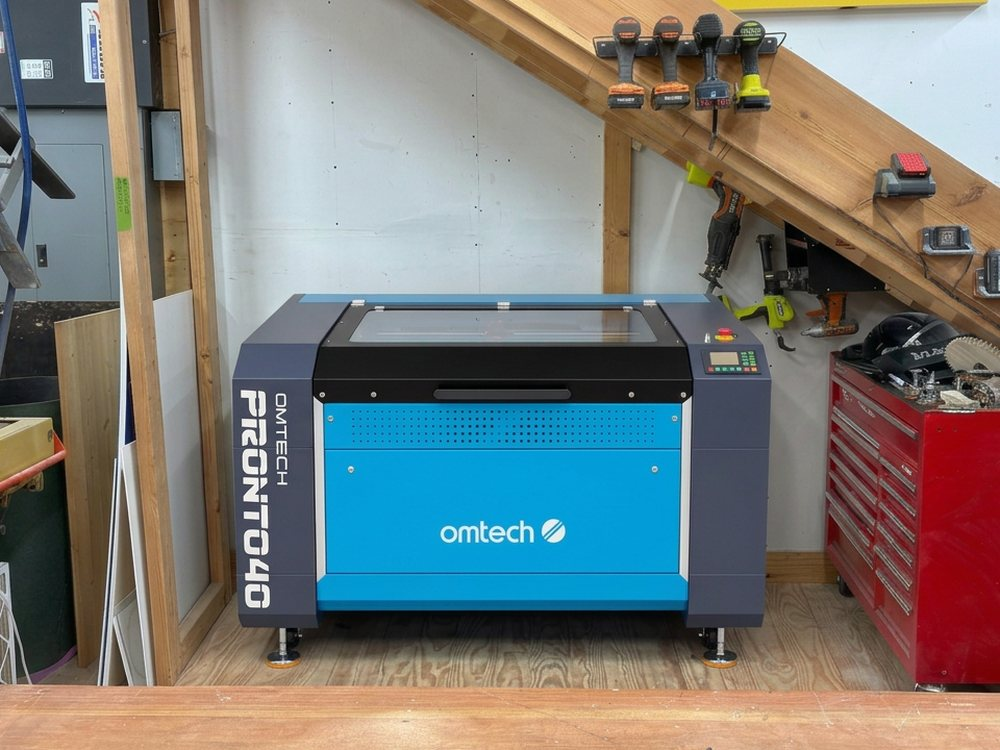
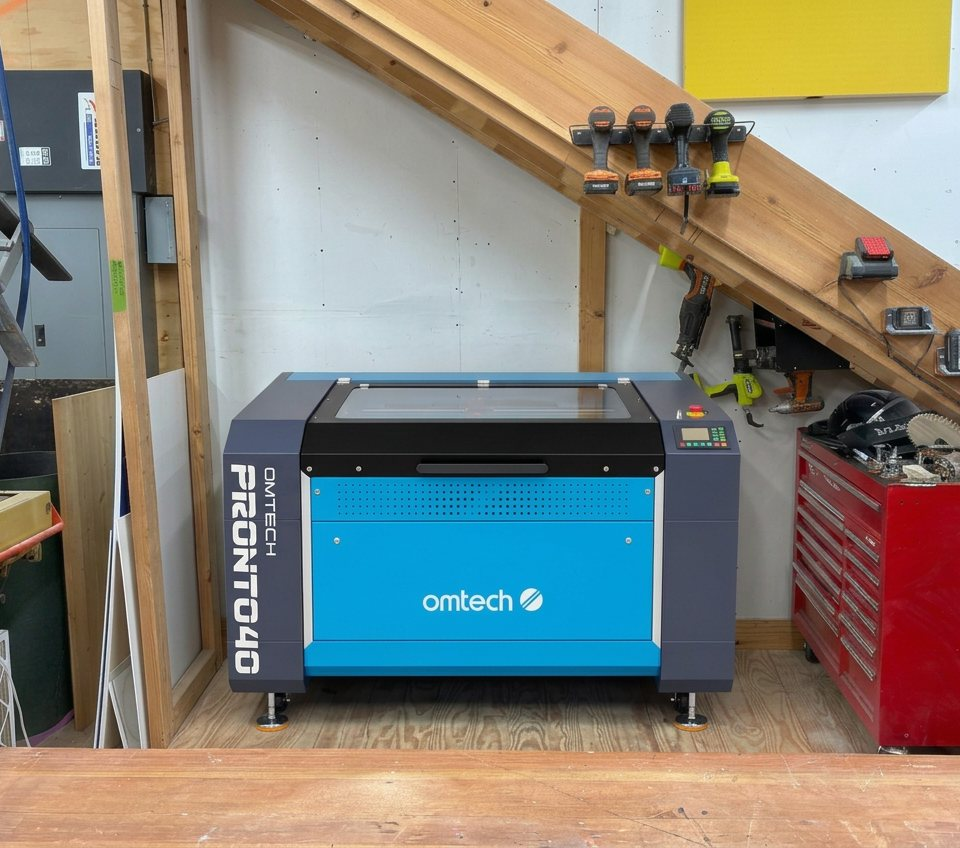
Responsive home hero (photos beside text on desktop, stacked on phone); spindle 18,000 RPM
Claude-Session: https://claude.ai/code/session_016zF7e1rgWVK8oBoMqKSJ3D

diff --git a/index.html b/index.html
@@ -24,7 +24,7 @@
 </div></header>
 <main id="main">
 
-<section class="hero"><div class="wrap">
+<section class="hero"><div class="wrap hero-grid hero-two">
   <div class="hero-copy hero-top">
     <span class="eyebrow">CNC routing &middot; laser cutting &amp; engraving &middot; fabrication</span>
     <h1>From trail signs to commercial builds</h1>
@@ -32,15 +32,15 @@
     <div class="hero-actions"><a class="btn" href="contact.html">Request a Quote</a><a class="btn ghost" href="tel:+18453842994">Call 845-384-2994</a></div>
   </div>
   <div class="hero-pair">
-    <figure class="hero-img"><img src="img/hero-router.jpg" alt="Hudson Valley CNC's 5 by 10 foot automatic tool-change CNC router in our shop" width="1000" height="750"><figcaption>CNC router &middot; 60&quot; &times; 120&quot; bed</figcaption></figure>
-    <figure class="hero-img"><a href="laser.html"><img src="img/hero-laser.jpg" alt="Our OMTech Pronto 40 laser cutter and engraver in the Hudson Valley CNC shop" width="1000" height="750"></a><figcaption>90W CO2 laser &middot; 35&quot; &times; 24&quot; bed</figcaption></figure>
+    <figure class="hero-img"><img src="img/hero-router.jpg" alt="Hudson Valley CNC's 5 by 10 foot automatic tool-change CNC router in our shop" width="900" height="1200"><figcaption>CNC router &middot; 60&quot; &times; 120&quot; bed</figcaption></figure>
+    <figure class="hero-img"><a href="laser.html"><img src="img/hero-laser.jpg" alt="Our OMTech Pronto 40 laser cutter and engraver in the Hudson Valley CNC shop" width="960" height="848"></a><figcaption>90W CO2 laser &middot; 35&quot; &times; 24&quot; bed</figcaption></figure>
   </div>
 </div></section>
 
 <div class="specs"><div class="wrap">
   <div class="spec"><b>5&#8242; &times; 10&#8242;</b><span>Full sheets, no seams</span></div>
   <div class="spec"><b>12</b><span>Tools on the automatic changer</span></div>
-  <div class="spec"><b>24,000</b><span>RPM, 9 kW HSD spindle</span></div>
+  <div class="spec"><b>18,000</b><span>RPM, 9 kW HSD spindle</span></div>
   <div class="spec"><b>~12&quot;</b><span>Z clearance for thick stock</span></div>
   <div class="spec"><b>4th axis</b><span>Rotary carving for posts &amp; columns</span></div>
 </div></div>

diff --git a/assets/style.css b/assets/style.css
@@ -99,9 +99,13 @@ section { padding-block: clamp(56px, 8vw, 104px); }
 .hero-img { position: relative; }
 .hero-img img { width: 100%; aspect-ratio: 4/5; object-fit: cover; }
 .hero-img figcaption { position: absolute; left: 0; bottom: 0; background: var(--ink); color: var(--paper); font: 500 .75rem/1.3 var(--f-mono); padding: 8px 12px; letter-spacing: .06em; }
-.hero-top { max-width: 900px; padding-bottom: 36px; }
-.hero-pair { display: grid; grid-template-columns: 1fr 1fr; gap: clamp(12px, 2vw, 24px); }
-.hero-pair .hero-img img { aspect-ratio: 4/3; display: block; }
+/* home hero: text left + two machine photos right on desktop; text above, photos below on smaller screens */
+.hero-two { grid-template-columns: 1fr 1fr; align-items: center; padding-bottom: clamp(32px, 4vw, 56px); }
+.hero-two .hero-top { padding-bottom: 0; }
+.hero-pair { display: grid; grid-template-columns: 1fr 1fr; gap: clamp(10px, 1.4vw, 18px); }
+.hero-pair .hero-img img { aspect-ratio: 3/4; display: block; object-position: 50% 60%; }
+.hero-pair .hero-img figcaption { font-size: .7rem; }
+@media (max-width: 1000px) { .hero-two { grid-template-columns: 1fr; } .hero-pair .hero-img img { aspect-ratio: 4/3; } }
 @media (max-width: 600px) { .hero-pair { grid-template-columns: 1fr; } }
 @media (max-width: 820px) { .hero-grid { grid-template-columns: 1fr; } .hero-img img { aspect-ratio: 4/3; } }
 

diff --git a/about.html b/about.html
@@ -38,7 +38,7 @@
   <div class="table-wrap"><table class="spec-table"><tbody>
   <tr><th>Cutting area</th><td>60&quot; &times; 120&quot; (1500 &times; 3000 mm)</td></tr>
   <tr><th>Z clearance</th><td>About 11.8&quot; (300 mm) of travel</td></tr>
-  <tr><th>Spindle</th><td>9 kW (12 HP) HSD air-cooled, up to 24,000 RPM, ER32</td></tr>
+  <tr><th>Spindle</th><td>9 kW (12 HP) HSD air-cooled, up to 18,000 RPM, ER32</td></tr>
   <tr><th>Tool changer</th><td>12-position linear automatic</td></tr>
   <tr><th>Hold-down</th><td>Full vacuum table plus pressure rollers for warped sheet goods</td></tr>
   <tr><th>Drives</th><td>Servo motors with reducers; rapids to about 50 m/min</td></tr>
